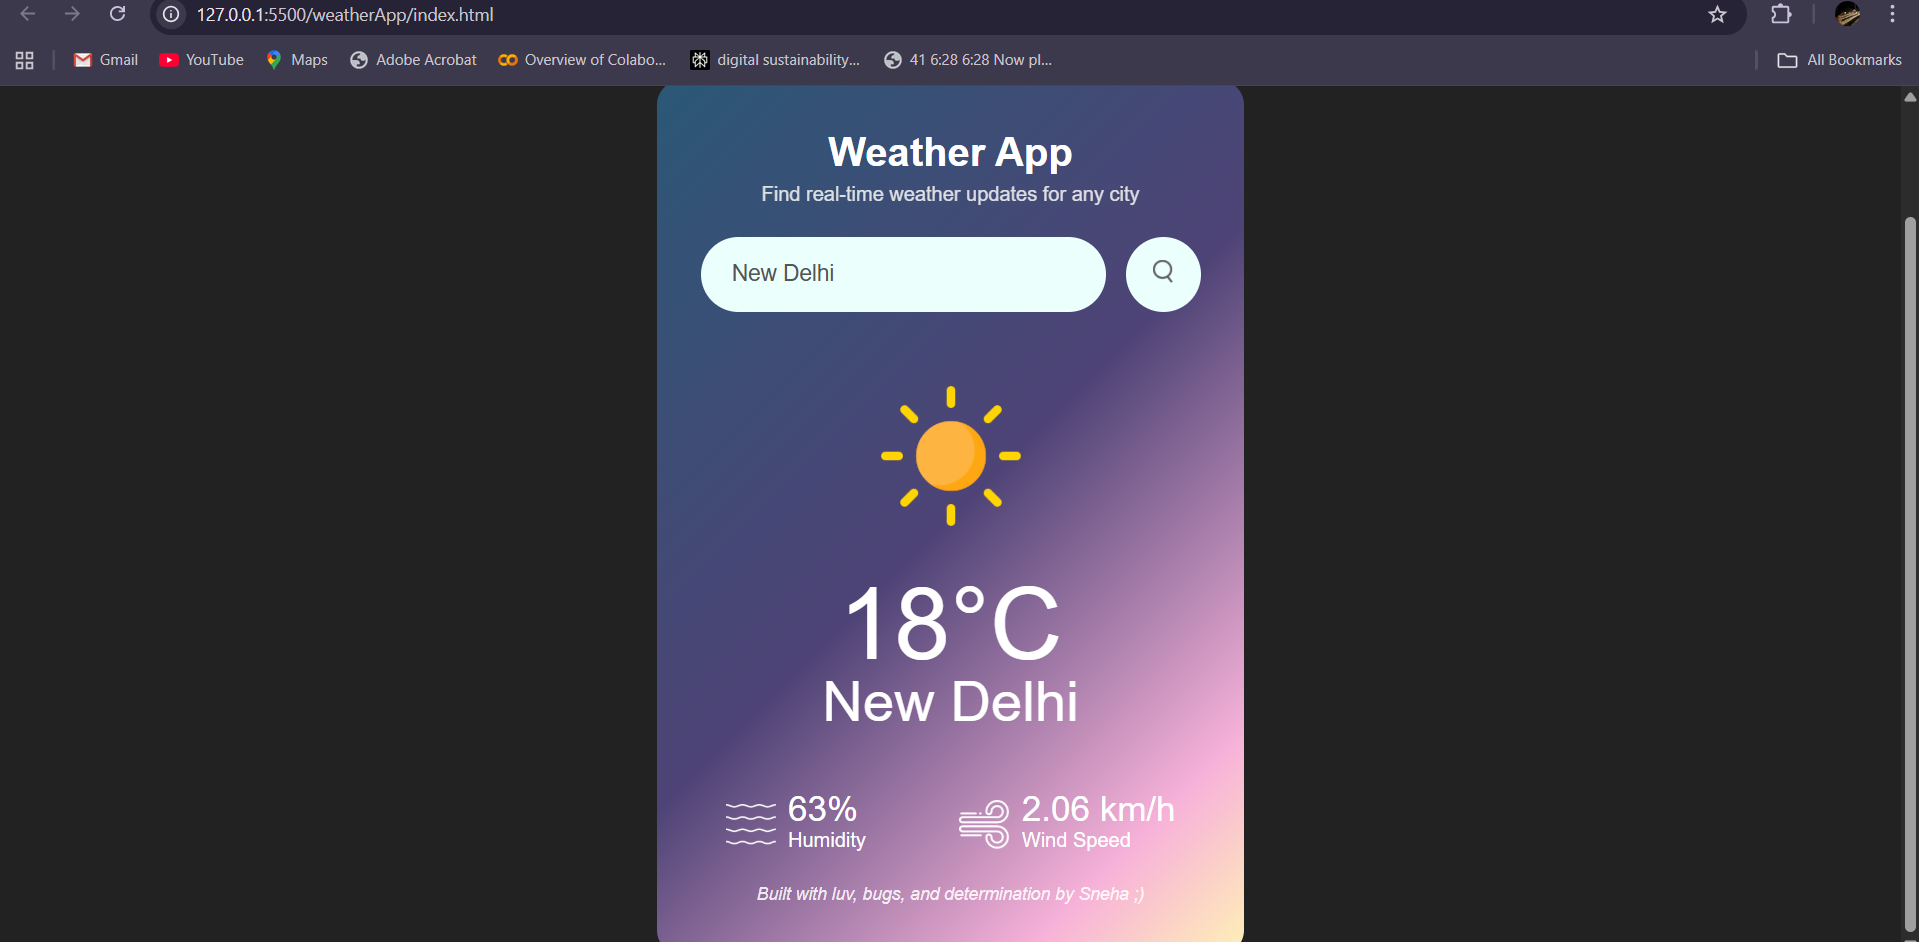
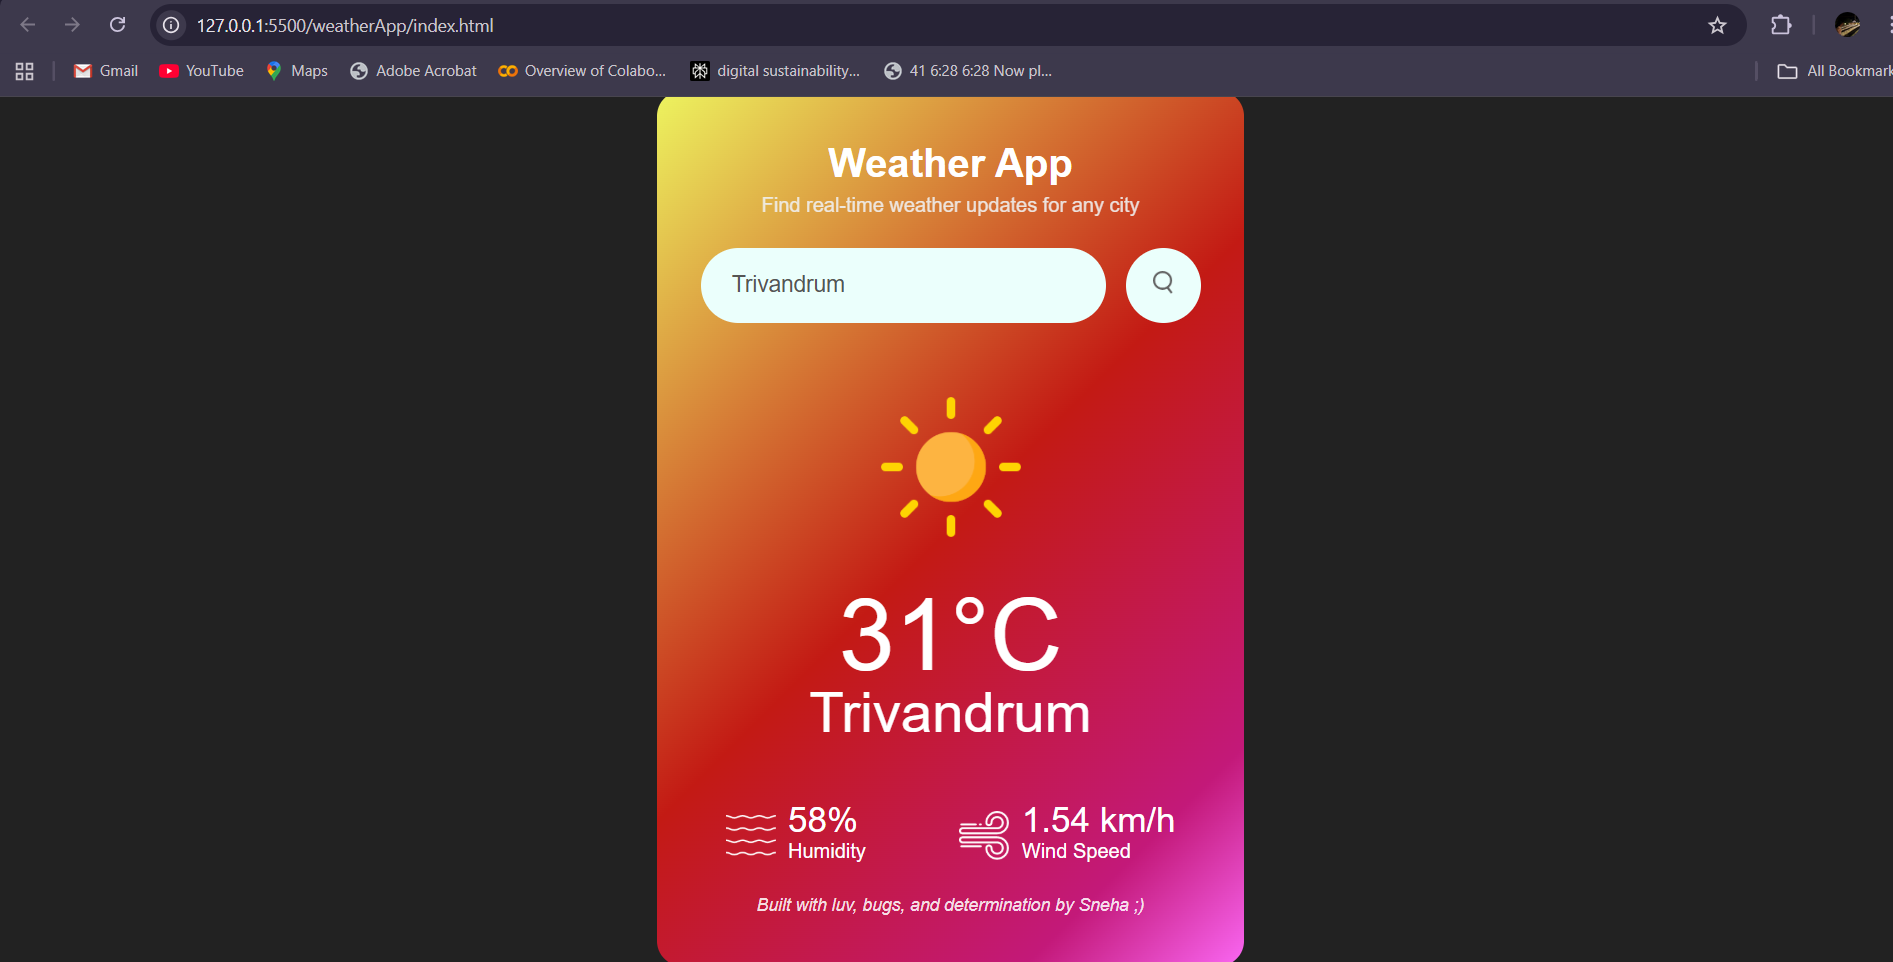
updated bg color and README screenshots

Changed region(s): [[0.0, 0.0, 1.0, 1.0], [0.9662, 0.2155, 1.0, 1.0]]

diff --git a/styles.css b/styles.css
@@ -14,10 +14,10 @@ body{
     max-width: 470px;
    background: linear-gradient(
   135deg,
-  #2b5876 0%,
-  #4e4376 50%,
-  #f7b2d9 85%,
-  #fff1b6 100%
+  #edf45f 0%,
+  #c31a14 50%,
+  #c31979 85%,
+  #fa67f3 100%
 );
     color: #fff;
     margin: 100px auto 0;

diff --git a/README.md b/README.md
@@ -7,13 +7,54 @@ Built using **HTML, CSS, and JavaScript**, with live data fetched from the **Ope
 
 -  Search weather by city name  
 -  Displays temperature, humidity & wind speed  
--  Clean and modern UI with gradient design  
+-  Clean and modern UI   
 - Instant results with real-time API data  
 - Error handling for invalid city names  
 
-##Tech Stack
+## Tech Stack
 
 - HTML
 - CSS
 - JAVASCRIPT
 - OpenWeatherMap API
+
+## 📸 Screenshots
+
+### Main Page
+![Home](APP_screenshots/main(1).png)
+
+### Clear Weather
+![Clear Weather](APP_screenshots/Clear_weather.png)
+
+### Rainy Weather
+![Rainy Weather](APP_screenshots/Rainy_weather.png)
+
+### Snowy Weather
+![Snowy Weather](APP_screenshots/Snowy_weather.png)
+
+### Cloudy Weather
+![Cloudy Weather](APP_screenshots/cloudy_weather.png)
+
+### Invalid City Input
+![Invalid City](APP_screenshots/invalid.png)
+
+
+## How to Run Locally
+
+1. Clone the repository
+
+- https://github.com/snehaelzadavid06/Weather-App.git
+
+
+2. Navigate into the project
+
+- cd Weather-App
+
+
+3. Open index.html in your browser
+
+- Double click it
+        OR
+- Use Live Server in VS Code
+
+
